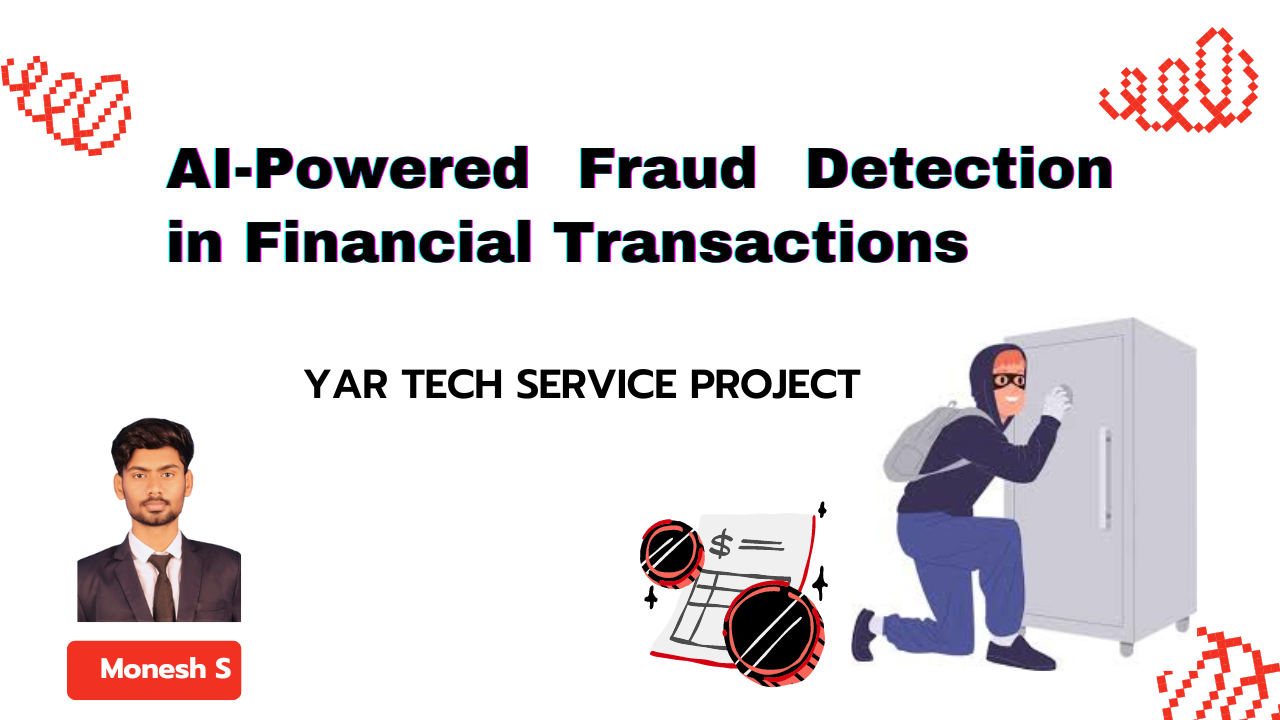
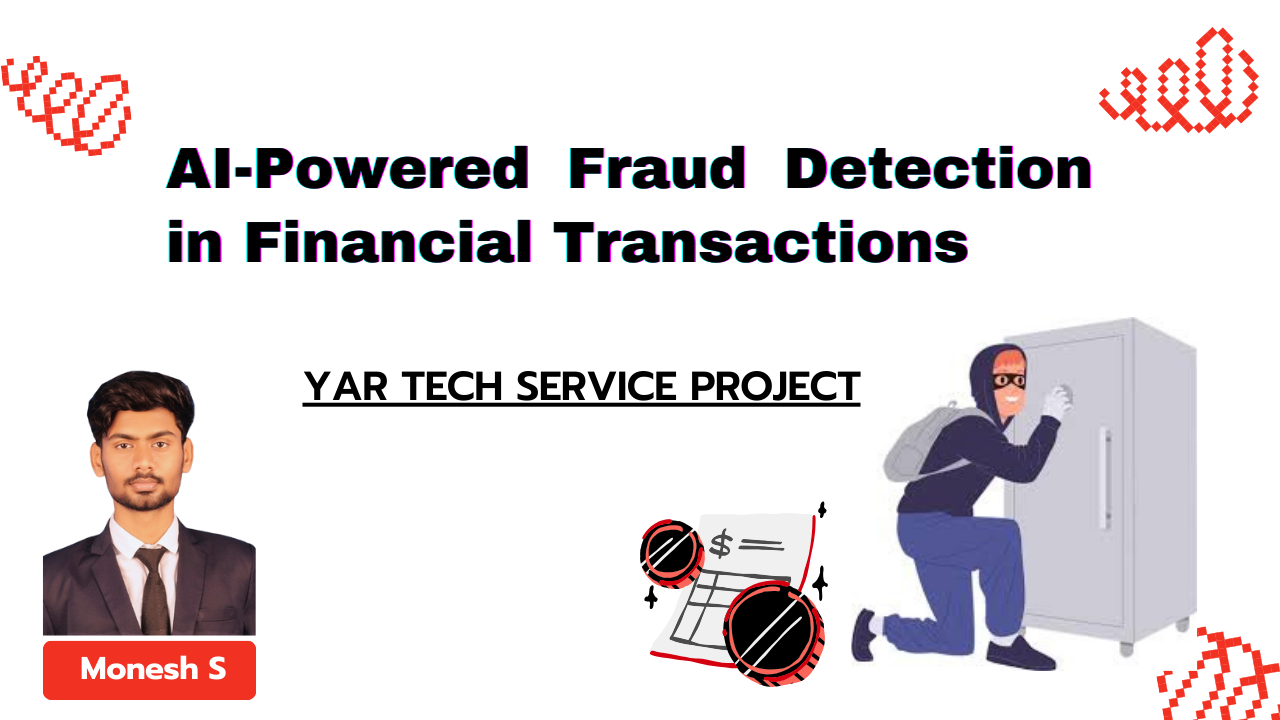
final commit

diff --git a/frontend/app.py b/frontend/app.py
@@ -2,11 +2,23 @@ import streamlit as st
 import json
 import requests as re
 
+# Inject custom CSS to increase sidebar width
+st.markdown(
+    """
+    <style>
+    .css-1r8vw6r { /* This class name might change, you may need to inspect and update it */
+        width: 300px !important; /* Increase the width to your desired size */
+    }
+    </style>
+    """,
+    unsafe_allow_html=True
+)
+
 # Title of the app
-st.title("AI-Powered Fraud Detection in Financial Transactions - YAR TECH PROJECT")
+st.title("AI-Powered Fraud Detection in Financial Transactions")
 
 # Displaying the image with increased size
-st.image("image.png", width=800)  # Adjust the width as needed to increase the size
+st.image("image.png", width=700)  # Adjust the width as needed to increase the size
 
 # Project Description
 st.write("""
@@ -19,6 +31,15 @@ st.sidebar.header('Input Features of The Transaction')
 sender_name = st.sidebar.text_input("Input Sender ID")
 receiver_name = st.sidebar.text_input("Input Receiver ID")
 step = st.sidebar.slider("Number of Hours it took the Transaction to complete:")
+st.sidebar.write("""
+### Instructions:
+- **Cash In (0)**: Money being deposited into an account.
+- **Cash Out (1)**: Money being withdrawn from an account.
+- **Debit (2)**: Direct payment from an account, typically using a debit card.
+- **Payment (3)**: Payment made towards a bill or invoice.
+- **Transfer (4)**: Moving money between accounts or to another person.
+""")
+
 types = st.sidebar.selectbox("Enter Type of Transfer Made:", (0, 1, 2, 3, 4))
 x = ''
 if types == 0:
@@ -56,11 +77,11 @@ if st.button("Detection Result"):
     - Receiver ID: {receiver_name}
     - Number of Hours it took to complete: {step}
     - Type of Transaction: {x}
-    - Amount Sent: {amount}
-    - Sender Previous Balance Before Transaction: {oldbalanceorg}
-    - Sender New Balance After Transaction: {newbalanceorg}
-    - Recipient Balance Before Transaction: {oldbalancedest}
-    - Recipient Balance After Transaction: {newbalancedest}
+    - Amount Sent: ${amount}
+    - Sender Previous Balance Before Transaction: ${oldbalanceorg}
+    - Sender New Balance After Transaction: ${newbalanceorg}
+    - Recipient Balance Before Transaction: ${oldbalancedest}
+    - Recipient Balance After Transaction: ${newbalancedest}
     - System Flag Fraud Status: {isflaggedfraud}
     """)
 

diff --git a/streamlit_app.py b/streamlit_app.py
@@ -3,7 +3,7 @@ import json
 import requests as re
 
 # Title of the app
-st.title("AI-Powered Fraud Detection in Financial Transactions - YAR TECH PROJECT")
+st.title("AI-Powered Fraud Detection in Financial Transactions")
 
 # Displaying the image with increased size
 st.markdown("""

diff --git a/backend/app.py b/backend/app.py
@@ -1,6 +1,5 @@
 from fastapi import FastAPI, File, Query, UploadFile, HTTPException, Form
 from fastapi.responses import FileResponse, PlainTextResponse
-import uvicorn
 import joblib
 import numpy as np
 from pydantic import BaseModel
